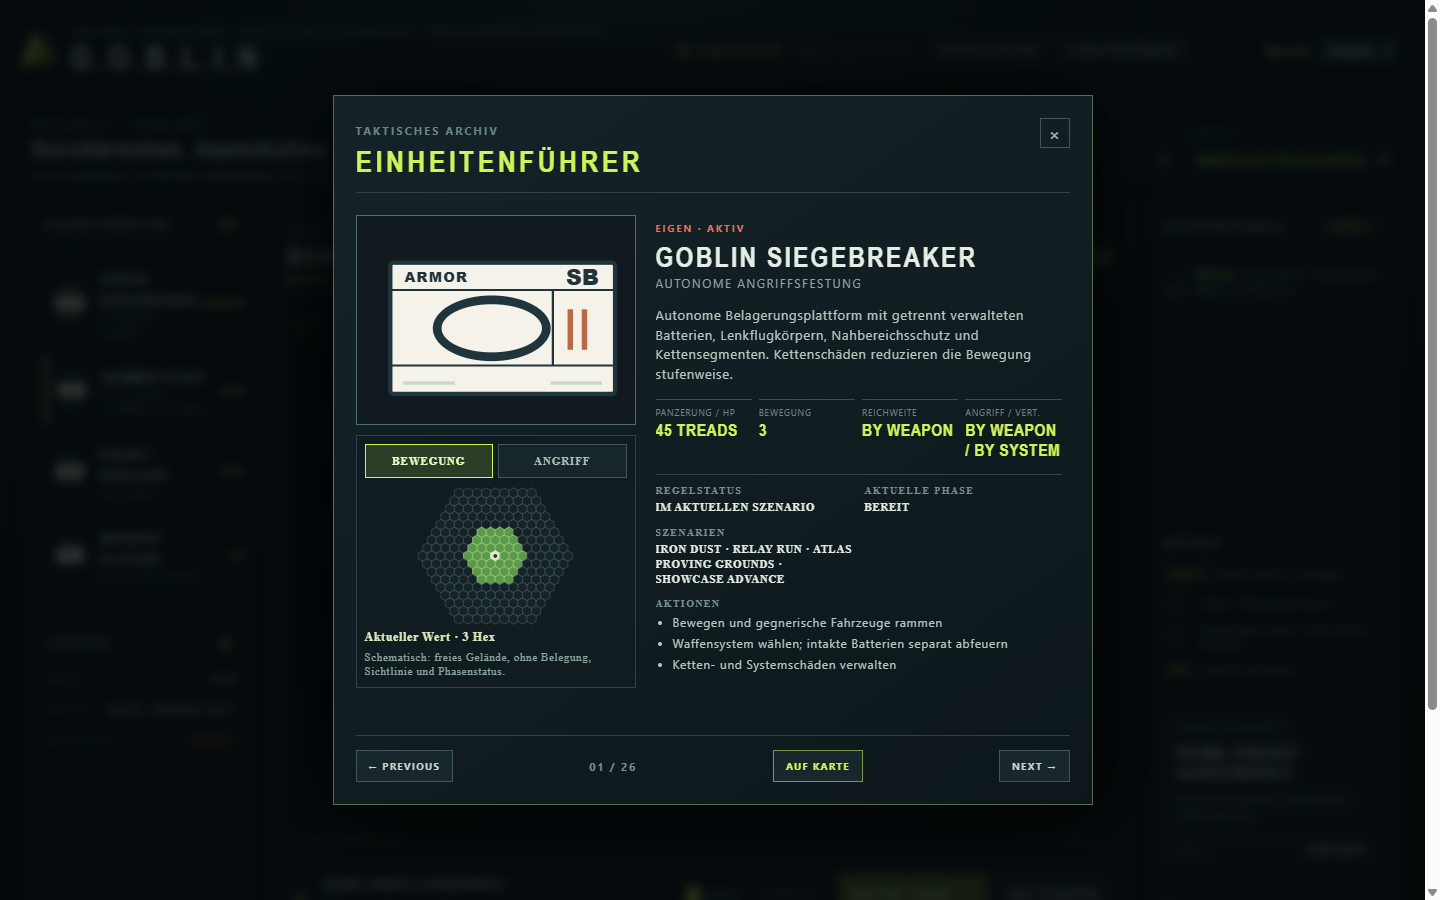
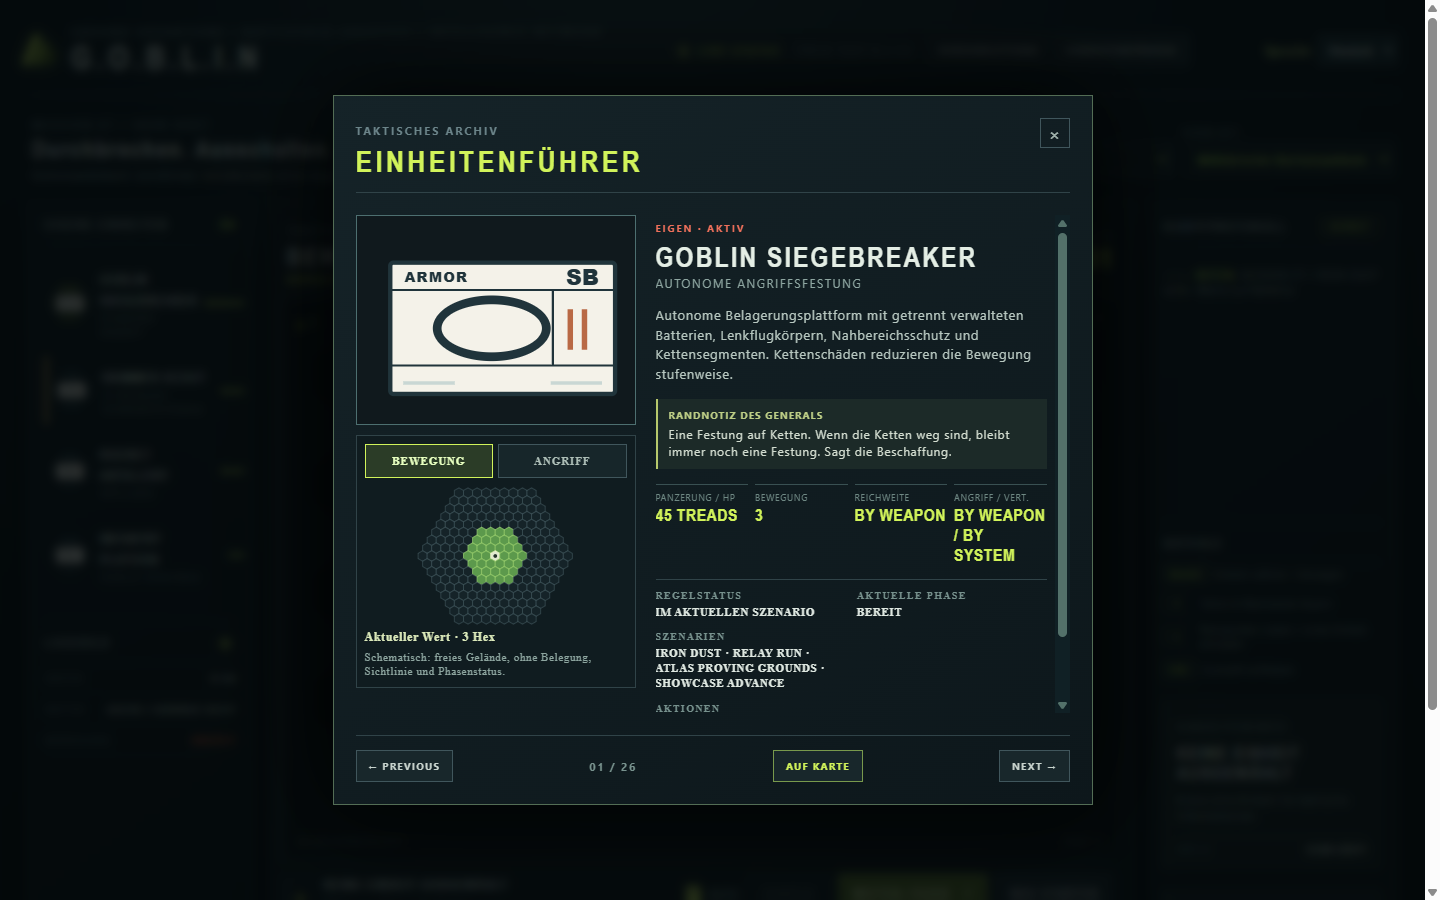
feat: add general's margin notes to every unit guide entry

Changed region(s): [[0.4375, 0.2489, 0.75, 0.8089]]

diff --git a/unit-guide-voice.js b/unit-guide-voice.js
@@ -1,0 +1,146 @@
+(function(root){
+  'use strict';
+  // Flavor text only. Gameplay facts and availability stay in unit-guide.js.
+  const labels={de:'RANDNOTIZ DES GENERALS',en:"THE GENERAL'S MARGIN NOTE",es:'NOTA AL MARGEN DEL GENERAL',fr:'NOTE EN MARGE DU GÉNÉRAL'};
+  const lines={
+    'GOBLIN SIEGEBREAKER':{
+      de:'Eine Festung auf Ketten. Wenn die Ketten weg sind, bleibt immer noch eine Festung. Sagt die Beschaffung.',
+      en:'A fortress on tracks. Lose the tracks and it is still a fortress. Procurement says so.',
+      es:'Una fortaleza sobre orugas. Si pierde las orugas, sigue siendo una fortaleza. Eso dice Compras.',
+      fr:'Une forteresse sur chenilles. Sans les chenilles, elle reste une forteresse. C’est ce que dit l’Intendance.'},
+    'SKIMMER SCOUT':{
+      de:'Unser Skimmer ist schnell. Richtig schnell. Vorfahren, schießen, verschwinden – bevor der Gegner an der Reihe ist.',
+      en:'Our skimmer is fast. Very fast. Move in, fire, get out—before the enemy gets a turn.',
+      es:'Nuestro deslizador es rápido. Muy rápido. Entra, dispara y se va antes de que le toque al enemigo.',
+      fr:'Notre aéroglisseur est rapide. Très rapide. Il avance, tire et file avant le tour adverse.'},
+    'ROCKET ARTILLERY':{
+      de:'Wir nennen es Fernunterstützung. Aus der Nähe wirkt das Wort weniger beruhigend.',
+      en:'We call it long-range support. The phrase sounds less comforting up close.',
+      es:'Lo llamamos apoyo de largo alcance. De cerca, la expresión tranquiliza bastante menos.',
+      fr:'Nous appelons cela un appui à longue portée. De près, la formule rassure beaucoup moins.'},
+    'INFANTRY SQUAD':{
+      de:'Drei Trupps auf dem Papier. Auf dem Feld zählt jeder einzelne. Papier hält länger.',
+      en:'Three squads on paper. In the field, every one of them counts. Paper lasts longer.',
+      es:'Tres escuadras sobre el papel. En el campo cuenta cada una. El papel dura más.',
+      fr:'Trois escouades sur le papier. Sur le terrain, chacune compte. Le papier dure plus longtemps.'},
+    'ASSAULT TANK':{
+      de:'Vorne ist es gefährlich. Deshalb haben wir den Panzer dicker gemacht und es Strategie genannt.',
+      en:'The front is dangerous. So we made the armor thicker and called it strategy.',
+      es:'El frente es peligroso. Así que reforzamos el blindaje y lo llamamos estrategia.',
+      fr:'Le front est dangereux. Nous avons donc épaissi le blindage et appelé cela une stratégie.'},
+    'RECON TANK':{
+      de:'Er findet den Feind meist zuerst. Im Bericht gilt das als Vorteil.',
+      en:'It usually finds the enemy first. The report calls that an advantage.',
+      es:'Suele encontrar primero al enemigo. El informe lo considera una ventaja.',
+      fr:'Il trouve généralement l’ennemi en premier. Le rapport appelle cela un avantage.'},
+    'SIEGE TANK':{
+      de:'Zwei Rohre, ein großer Schatten. Der Auftrag bleibt derselbe: näher ran, als einem lieb ist.',
+      en:'Two barrels, one long shadow. The assignment is still to get closer than anyone would like.',
+      es:'Dos cañones, una sombra larga. La orden sigue siendo acercarse más de lo que a nadie le gustaría.',
+      fr:'Deux canons, une longue ombre. L’ordre reste de s’approcher plus que de raison.'},
+    'LONG-RANGE BATTERY':{
+      de:'Sie bewegt sich nicht. In der Planung war das ein Standortvorteil.',
+      en:'It does not move. In the plan, that was listed as a location advantage.',
+      es:'No se mueve. En el plan figuraba como ventaja de emplazamiento.',
+      fr:'Elle ne bouge pas. Dans le plan, c’était un avantage de position.'},
+    'MOBILE SIEGE GUN':{
+      de:'Mobil ist hier ein dehnbarer Begriff. Die Reichweite ist es nicht.',
+      en:'Mobile is a flexible term here. Its firing range is not.',
+      es:'Móvil es aquí un término flexible. Su alcance no lo es.',
+      fr:'Mobile est ici un terme assez souple. Sa portée, beaucoup moins.'},
+    'COMBAT SKIMMER':{
+      de:'Er kommt, schießt und verschwindet. Der Feind bekommt die Rechnung im nächsten Zug.',
+      en:'It arrives, fires and vanishes. The enemy gets the bill on the next turn.',
+      es:'Llega, dispara y desaparece. El enemigo recibe la cuenta en el siguiente turno.',
+      fr:'Il arrive, tire et disparaît. L’ennemi reçoit la facture au tour suivant.'},
+    'LIGHT SKIMMER':{
+      de:'Schnell genug für mutige Pläne. Dünn genug, dass Mut Pflicht wird.',
+      en:'Fast enough for bold plans. Light enough to make courage mandatory.',
+      es:'Lo bastante rápido para planes audaces. Lo bastante frágil para que el valor sea obligatorio.',
+      fr:'Assez rapide pour les plans audacieux. Assez fragile pour rendre le courage obligatoire.'},
+    'SKIMMER CARRIER':{
+      de:'Drei Plätze für Infanterie. In der Logistik heißt das Fürsorge.',
+      en:'Three seats for infantry. Logistics calls that care.',
+      es:'Tres plazas para infantería. Logística lo llama atención al personal.',
+      fr:'Trois places pour l’infanterie. La logistique appelle cela de la sollicitude.'},
+    'STRATEGIC MISSILE CARRIER':{
+      de:'Eine Rakete, ein großer Radius und unangenehm viele Nachbarn. Die Nachbesprechung wird kurz.',
+      en:'One missile, a wide blast and far too many neighbors. The debrief will be short.',
+      es:'Un misil, una gran explosión y demasiados vecinos. La reunión posterior será breve.',
+      fr:'Un missile, une large explosion et beaucoup trop de voisins. Le débriefing sera bref.'},
+    'ARTILLERY DRONE':{
+      de:'Die Drohne spart Besatzung. Die Verantwortung hat noch niemand eingespart.',
+      en:'The drone saves a crew. Nobody has worked out how to save the responsibility.',
+      es:'El dron ahorra una tripulación. Nadie ha conseguido ahorrar la responsabilidad.',
+      fr:'Le drone épargne un équipage. Personne n’a encore trouvé comment épargner la responsabilité.'},
+    'AMPHIBIOUS INFANTRY':{
+      de:'Wasser hält sie nicht auf. Die Frage, wer sie zurückholt, steht in einem anderen Formular.',
+      en:'Water will not stop them. Who brings them back is covered by another form.',
+      es:'El agua no los detiene. Quién los trae de vuelta consta en otro formulario.',
+      fr:'L’eau ne les arrête pas. La question du retour figure sur un autre formulaire.'},
+    'FIELD ENGINEERS':{
+      de:'Sie kommen mit Werkzeug und einem Plan. Beides ist im Feuergefecht schwer zu erklären.',
+      en:'They bring tools and a plan. Both are hard to explain under fire.',
+      es:'Traen herramientas y un plan. Ambas cosas son difíciles de explicar bajo fuego.',
+      fr:'Ils apportent des outils et un plan. Sous le feu, les deux sont difficiles à expliquer.'},
+    'LOCAL DEFENSE':{
+      de:'Heimvorteil klingt großartig, bis die Heimat zur Front wird.',
+      en:'Home advantage sounds wonderful until home becomes the front.',
+      es:'La ventaja de jugar en casa suena bien hasta que la casa se convierte en el frente.',
+      fr:'L’avantage du terrain sonne bien jusqu’à ce que le terrain devienne le front.'},
+    'COMMAND HUB':{
+      de:'Hier werden Befehle beschlossen. Die Folgen liegen außerhalb des Kartenraums.',
+      en:'Orders are decided here. The consequences lie beyond the map room.',
+      es:'Aquí se deciden las órdenes. Las consecuencias quedan fuera de la sala de mapas.',
+      fr:'C’est ici que les ordres sont décidés. Leurs conséquences dépassent la salle des cartes.'},
+    'GOBLIN DREADNAUGHT':{
+      de:'Groß, laut und schwer zu übersehen. Die Beschaffung nennt das Abschreckung.',
+      en:'Big, loud and impossible to miss. Procurement calls that deterrence.',
+      es:'Grande, ruidoso e imposible de pasar por alto. Compras lo llama disuasión.',
+      fr:'Grand, bruyant et impossible à manquer. L’Intendance appelle cela de la dissuasion.'},
+    'PHANTOM PLATFORM':{
+      de:'Phantom ist ein guter Name. Man bemerkt es leider trotzdem, sobald es schießt.',
+      en:'Phantom is a fine name. People still notice it once it fires.',
+      es:'Fantasma es un buen nombre. Por desgracia, se nota en cuanto dispara.',
+      fr:'Fantôme est un joli nom. On le remarque tout de même dès qu’il tire.'},
+    'INFANTRY PLATOON':{
+      de:'Mehr Stiefel auf der Karte. Weniger Platz für einfache Antworten.',
+      en:'More boots on the map. Less room for easy answers.',
+      es:'Más botas en el mapa. Menos espacio para respuestas fáciles.',
+      fr:'Plus de bottes sur la carte. Moins de place pour les réponses faciles.'},
+    'COMMAND CORE':{
+      de:'Ein Ziel mit Mauern. Für die Leute dahinter ist es vermutlich mehr als ein Symbol.',
+      en:'A target with walls. To the people behind them, it is probably more than a symbol.',
+      es:'Un objetivo con muros. Para quienes están detrás, seguramente es más que un símbolo.',
+      fr:'Une cible entourée de murs. Pour les gens derrière, c’est sans doute plus qu’un symbole.'},
+    'RELAY NODE':{
+      de:'Es sendet Befehle weiter. Leider auch die schlechten.',
+      en:'It relays orders. Unfortunately, the bad ones too.',
+      es:'Transmite órdenes. Por desgracia, también las malas.',
+      fr:'Il transmet les ordres. Malheureusement, les mauvais aussi.'},
+    'GUARD TANK':{
+      de:'Er hält die Linie. Wer die Linie gezogen hat, sitzt selten darin.',
+      en:'It holds the line. Whoever drew that line is rarely inside.',
+      es:'Mantiene la línea. Quien la trazó rara vez va dentro.',
+      fr:'Il tient la ligne. Celui qui l’a tracée se trouve rarement à bord.'},
+    'RAIDER SKIMMER':{
+      de:'Er gleitet übers Wasser. Vor der Verantwortung gleitet niemand davon.',
+      en:'It glides over water. Nobody glides away from responsibility.',
+      es:'Se desliza sobre el agua. De la responsabilidad no se escapa nadie.',
+      fr:'Il glisse sur l’eau. Personne ne glisse hors de sa responsabilité.'},
+    'FORGE ENGINEER':{
+      de:'Reparieren klingt friedlich. Bis die Maschine wieder schießen kann.',
+      en:'Repair sounds peaceful. Until the machine can fire again.',
+      es:'Reparar suena pacífico. Hasta que la máquina puede volver a disparar.',
+      fr:'Réparer semble pacifique. Jusqu’à ce que la machine puisse tirer à nouveau.'}
+  };
+  let currentName;
+  function render(name){
+    currentName=name;
+    const lang=root.GoblinLanguage?.current||'de';
+    document.querySelector('#guide-voice-label').textContent=labels[lang]||labels.de;
+    document.querySelector('#guide-voice-copy').textContent=lines[name]?.[lang]||lines[name]?.de||'';
+  }
+  root.UnitGuideVoice=Object.freeze({lines,render});
+  root.addEventListener?.('goblin-language-change',()=>{if(currentName)render(currentName)});
+})(globalThis);

diff --git a/index.html b/index.html
@@ -12,7 +12,7 @@
     <link rel="stylesheet" href="unit-ui.css?v=1" />
       <link rel="stylesheet" href="art-theme.css?v=14" />
       <link rel="stylesheet" href="terrain-ui.css?v=11" />
-      <link rel="stylesheet" href="unit-guide-details.css?v=15" />
+      <link rel="stylesheet" href="unit-guide-details.css?v=17" />
     <style>
       .unit-svg { pointer-events: all; cursor: pointer; visibility: visible; opacity: 1; }
       .unit-svg.wreck { pointer-events: none; cursor: default; }
@@ -188,7 +188,7 @@
     </div>    <div id="unit-guide-modal" class="modal guide-modal hidden" role="dialog" aria-modal="true" aria-labelledby="guide-title">
       <section class="guide-card">
         <div class="guide-head"><div><span class="eyebrow">TACTICAL ARCHIVE</span><h2 id="guide-title">UNIT GUIDE</h2></div><button id="unit-guide-close" class="guide-close" aria-label="Einheitenführer schließen">×</button></div>
-        <div class="guide-body"><div class="guide-visual"><div id="guide-symbol" class="guide-symbol">G</div><section class="guide-range-panel" aria-label="Reichweitenvorschau"><div class="guide-range-switch" role="group" aria-label="Reichweitenansicht"><button id="guide-range-move" type="button" aria-pressed="true">BEWEGUNG</button><button id="guide-range-attack" type="button" aria-pressed="false">ANGRIFF</button></div><div id="guide-range-map" class="guide-range-map"></div><strong id="guide-range-summary" class="guide-range-summary"></strong><p id="guide-range-note" class="guide-range-note"></p></section></div><div class="guide-information"><span id="guide-kicker" class="guide-kicker">FRIENDLY SYSTEM</span><h3 id="guide-name">GOBLIN SIEGEBREAKER</h3><div id="guide-role" class="guide-role">HEAVY ASSAULT</div><p id="guide-copy" class="guide-copy"></p><div id="guide-facts" class="guide-facts"></div><div class="guide-meta"><div><span>REGELSTATUS</span><b id="guide-status"></b></div><div><span>AKTUELLE PHASE</span><b id="guide-phase-status"></b></div><div><span>SZENARIEN</span><b id="guide-scenarios"></b></div></div><div class="guide-action-section"><span>AKTIONEN</span><ul id="guide-action-list"></ul></div></div></div>
+        <div class="guide-body"><div class="guide-visual"><div id="guide-symbol" class="guide-symbol">G</div><section class="guide-range-panel" aria-label="Reichweitenvorschau"><div class="guide-range-switch" role="group" aria-label="Reichweitenansicht"><button id="guide-range-move" type="button" aria-pressed="true">BEWEGUNG</button><button id="guide-range-attack" type="button" aria-pressed="false">ANGRIFF</button></div><div id="guide-range-map" class="guide-range-map"></div><strong id="guide-range-summary" class="guide-range-summary"></strong><p id="guide-range-note" class="guide-range-note"></p></section></div><div class="guide-information"><span id="guide-kicker" class="guide-kicker">FRIENDLY SYSTEM</span><h3 id="guide-name">GOBLIN SIEGEBREAKER</h3><div id="guide-role" class="guide-role">HEAVY ASSAULT</div><p id="guide-copy" class="guide-copy"></p><aside class="guide-voice" aria-labelledby="guide-voice-label"><span id="guide-voice-label"></span><p id="guide-voice-copy"></p></aside><div id="guide-facts" class="guide-facts"></div><div class="guide-meta"><div><span>REGELSTATUS</span><b id="guide-status"></b></div><div><span>AKTUELLE PHASE</span><b id="guide-phase-status"></b></div><div><span>SZENARIEN</span><b id="guide-scenarios"></b></div></div><div class="guide-action-section"><span>AKTIONEN</span><ul id="guide-action-list"></ul></div></div></div>
         <div class="guide-nav"><button id="guide-prev">← PREVIOUS</button><span id="guide-count" class="guide-count">01 / 26</span><button id="guide-find" disabled>AUF KARTE</button><button id="guide-next">NEXT →</button></div>
       </section>
     </div>
@@ -207,7 +207,8 @@
     <script src="scenario.js?v=7"></script>
     <script src="atlas-level.js?v=13"></script>
     <script src="unit-guide-range.js?v=1"></script>
-    <script src="unit-guide.js?v=14"></script>
+    <script src="unit-guide-voice.js?v=1"></script>
+    <script src="unit-guide.js?v=15"></script>
     <script src="mobile-views.js?v=1"></script>
     <script src="quick-start.js?v=1"></script>
     <script src="art-theme.js?v=14"></script>

diff --git a/unit-guide-details.css b/unit-guide-details.css
@@ -16,6 +16,9 @@
 .guide-range-center{fill:#23322b}
 .guide-range-summary{display:block;color:#dceabb;font:700 12px Rajdhani;line-height:1.3}
 .guide-range-note{color:#8ea6a0;font:500 11px Rajdhani;line-height:1.35;margin:4px 0 0}
+.guide-voice{border-left:2px solid #b6c86c;background:#1c2a28;padding:9px 11px;margin:0 0 15px}
+.guide-voice span{display:block;color:#bdce86;font:700 10px system-ui,sans-serif;letter-spacing:.1em}
+.guide-voice p{color:#d3ddd0;font:400 12px system-ui,sans-serif;line-height:1.4;margin:4px 0 0}
 .guide-information{min-width:0;min-height:0;overflow-y:auto;padding-right:8px;scrollbar-color:#53716a #102025}
 .guide-meta{display:grid;grid-template-columns:1fr 1fr;gap:12px;margin-top:14px;padding-top:10px;border-top:1px solid #304348}
 .guide-meta span,.guide-action-section>span{display:block;color:#78928e;font:700 10px Rajdhani;letter-spacing:.13em}

diff --git a/unit-guide.js b/unit-guide.js
@@ -66,6 +66,7 @@ function renderUnitGuide(){
   document.querySelector('#guide-role').textContent=unit.role;
   const liveDrone=unit.name==='ARTILLERY DRONE'&&live;
   document.querySelector('#guide-copy').textContent=liveDrone?'Field-Test-Regel: Diese Artilleriedrohne kann sich selbstständig bewegen. Die stationäre Katalogregel ist noch nicht aktiv.':unit.copy;
+  globalThis.UnitGuideVoice.render(unit.name);
   const hp=live?(live.ogreSystems?`${live.ogreSystems.treads} TREADS`:`${Math.max(0,live.hp)}/${live.maxHp}`):unit.hp;
   const move=live?`${live.move}${isGevUnit(live)?' + 2':''}`:unit.move;
   const range=live?(live.ogreSystems?'BY WEAPON':live.range):unit.range;
